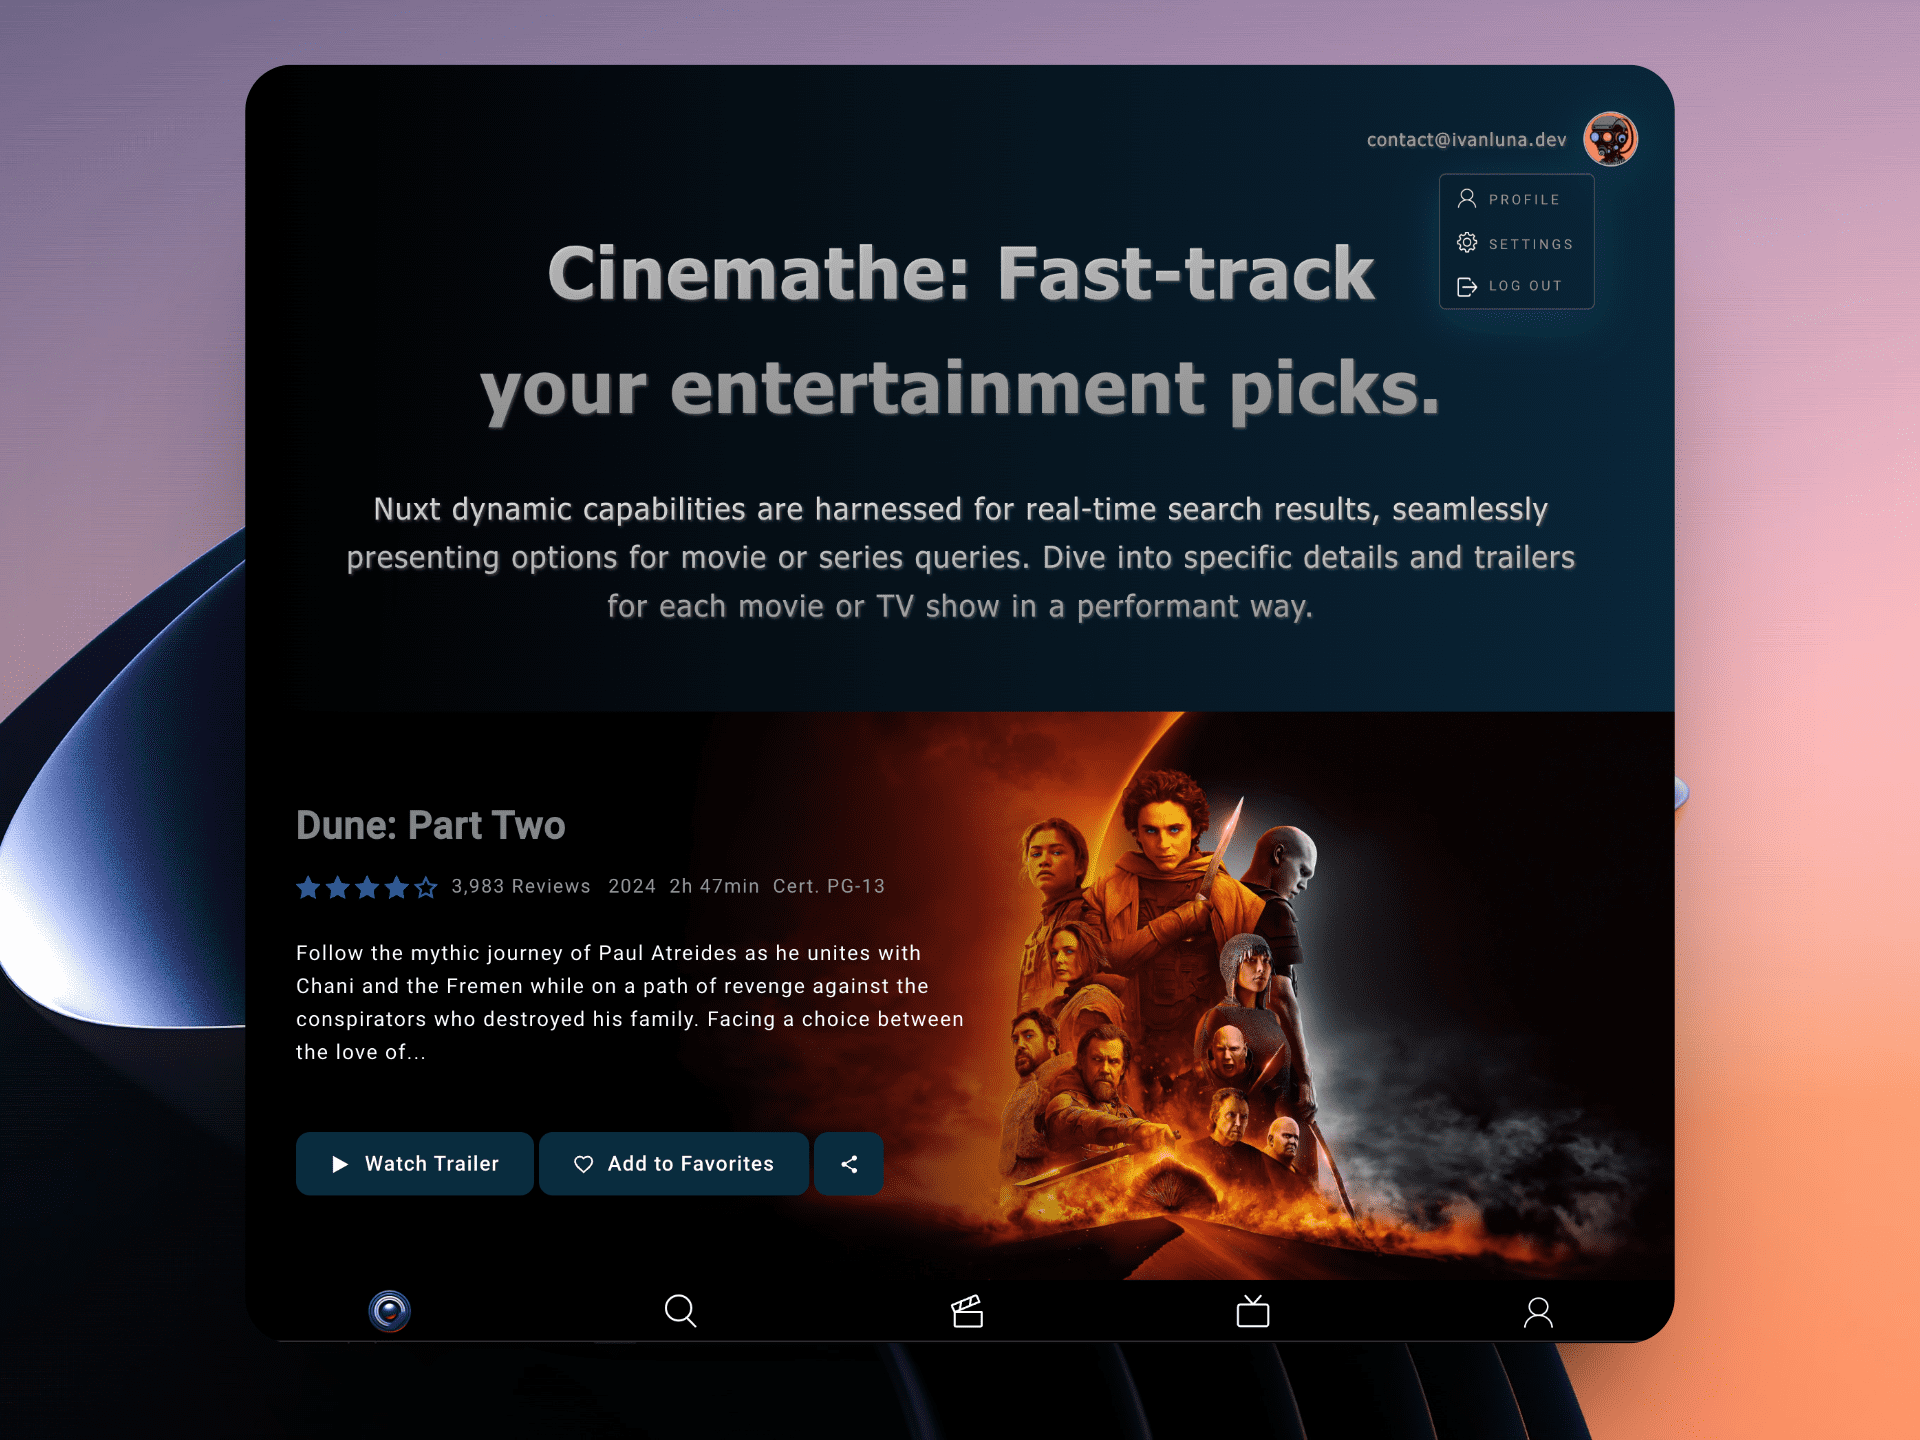
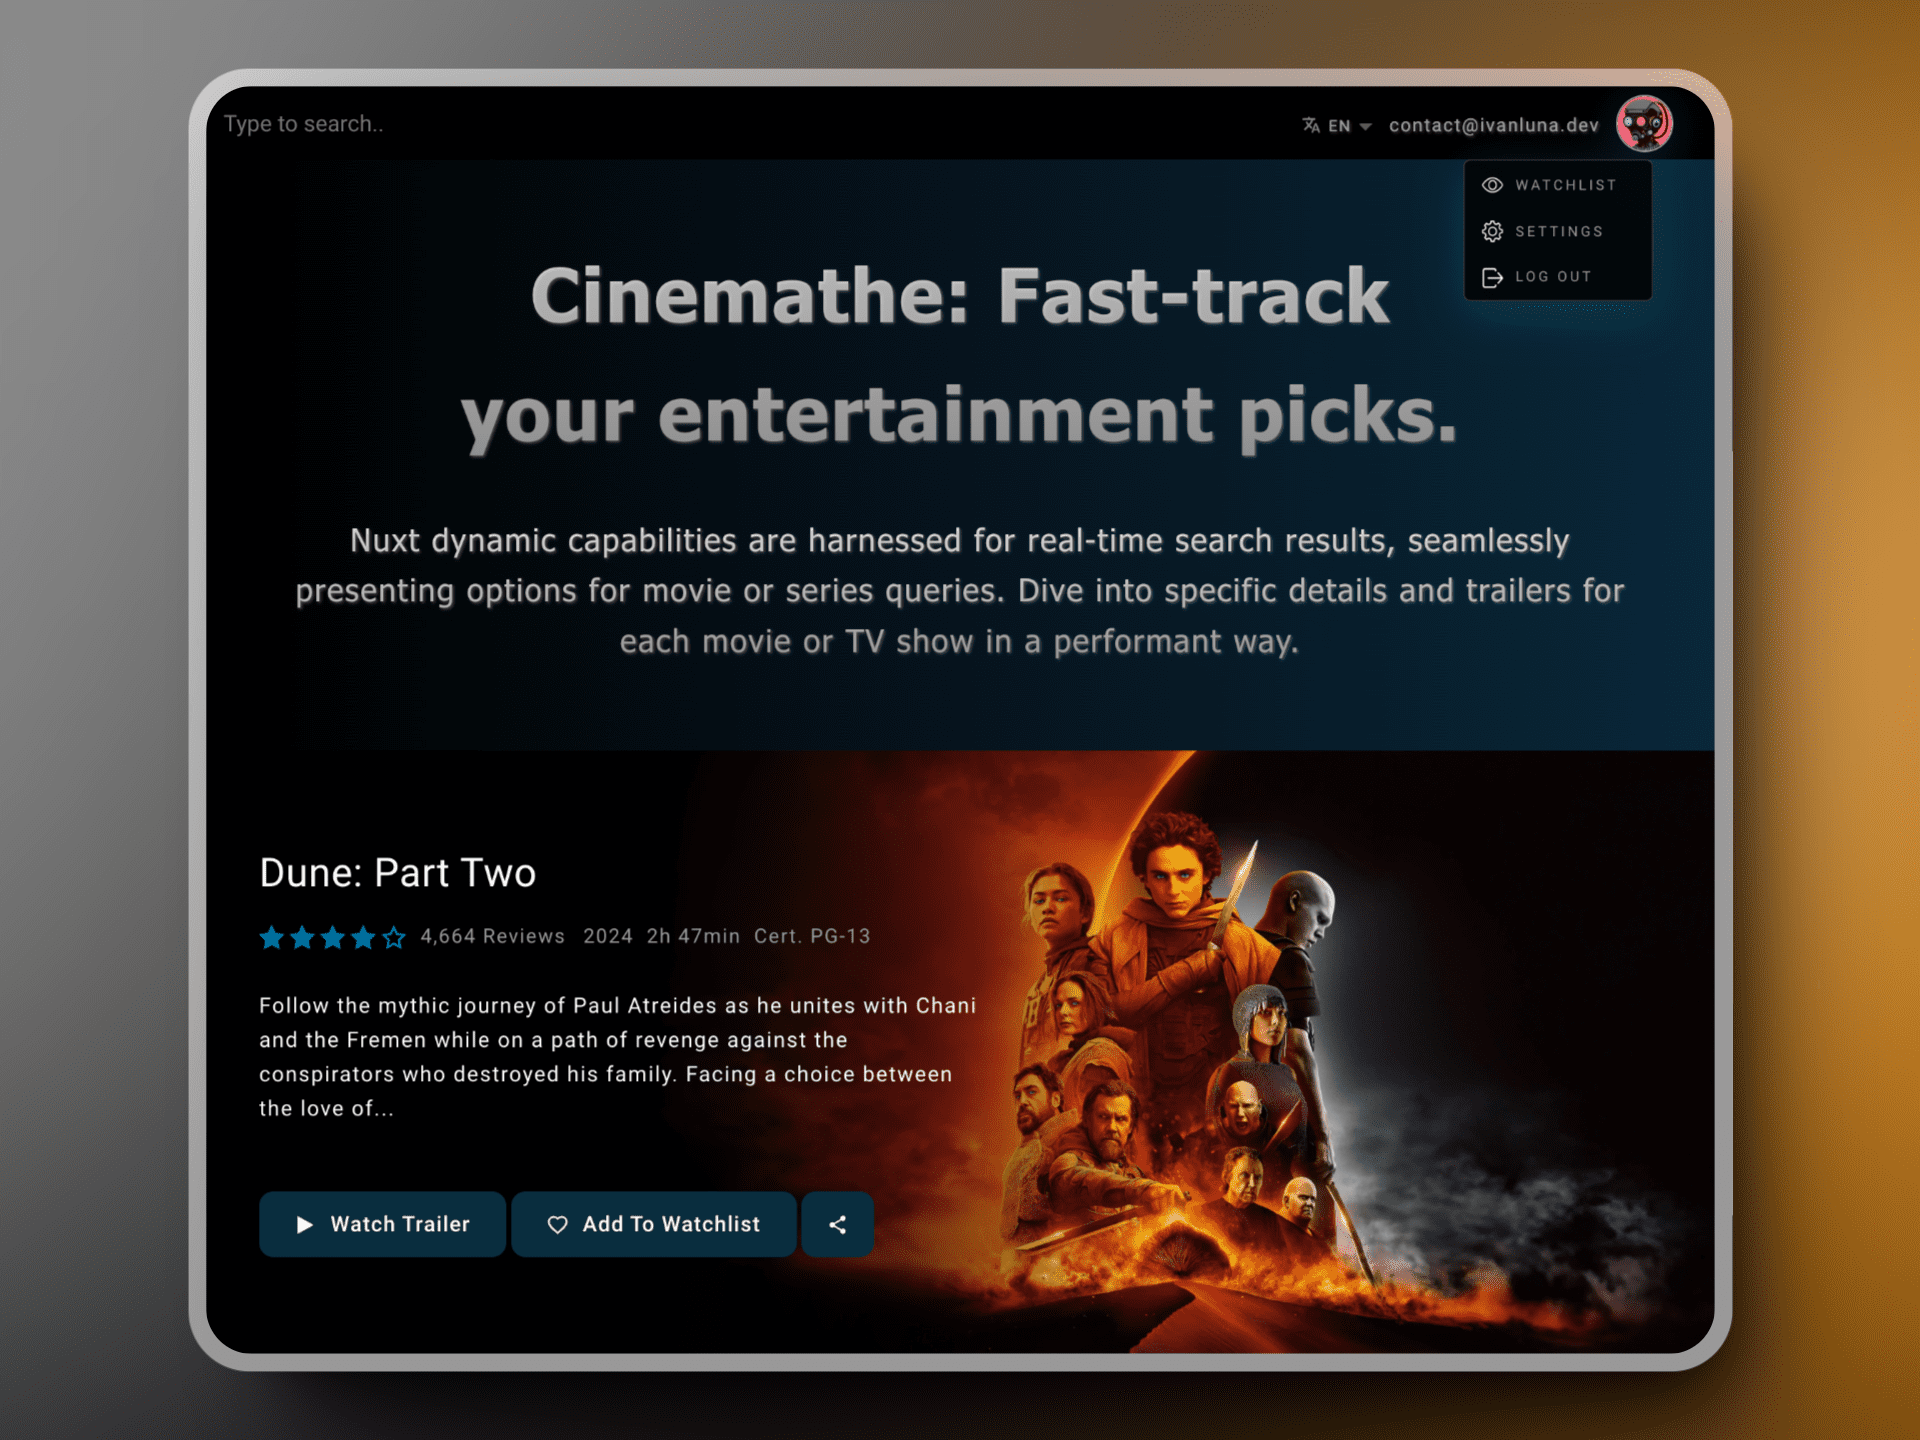
update: assets and cinemathe.md

diff --git a/src/content/projects/post-cinemathe.md b/src/content/projects/post-cinemathe.md
@@ -51,7 +51,13 @@ The release of Cinemathe v1.3.0 is now available!. This release includes several
 - **Comprehensive User Profile Management:** Users enjoy complete control over their profiles, with the ability to save favorite movies and TV series, personalize their entertainment preferences, and conveniently access account settings. The addition of a user profile menu on both the main and profile pages further enhances user interaction, providing easy access to authentication and account customization options, including avatar changes.
 
 <div align="center">
-  <img src="/images/assets/guide2.gif" alt="Guide GIF" style="width: 70%; height: auto; border-radius: 10px;">
+  <img src="/images/assets/guide2.png" alt="Guide GIF" style="width: 70%; height: auto; border-radius: 10px;">
+</div>
+
+- **Advanced Search Filters:** Implemented advanced search functionality by year, genre, and rating. This enhancement allows users to filter search queries more precisely, making it easier to find exactly what they are looking for.
+
+<div align="center">
+  <img src="/images/assets/guide7.png" alt="Guide GIF" style="width: 70%; height: auto; border-radius: 10px;">
 </div>
 
 
